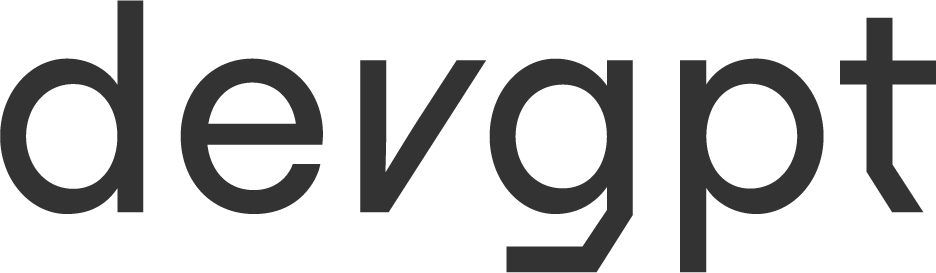
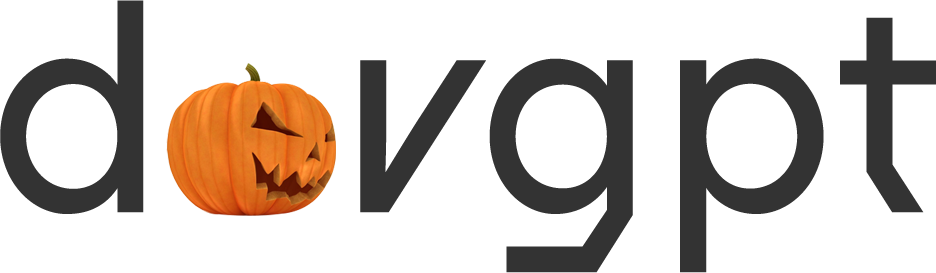
spookified 🎃

Changed region(s): [[0.1549, 0.2051, 0.3718, 0.7912]]

diff --git a/src/components/Logo.tsx b/src/components/Logo.tsx
@@ -9,9 +9,9 @@ const Logo = () => {
   return (
     <Image
       src={colorMode === "dark" ? devgpt.src : devgptdark.src}
-      maxH="25px"
+      maxH="35px"
       bgClip="text"
-      alt="Astro says hi!"
+      alt="DevGPT Logo"
     />
   );
 };
